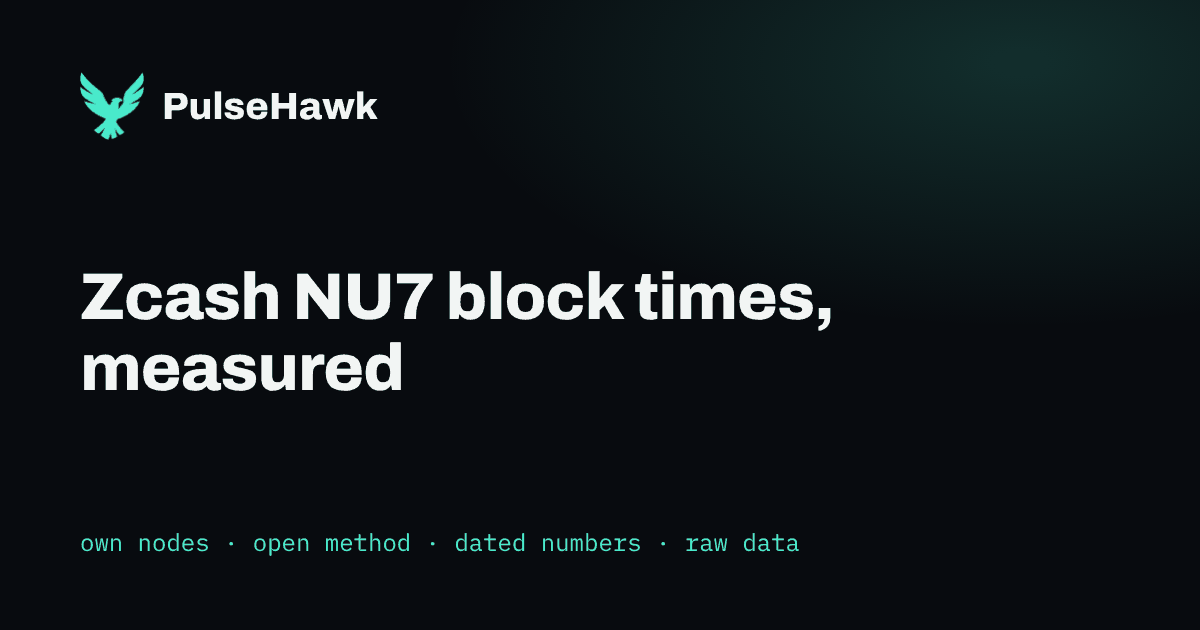
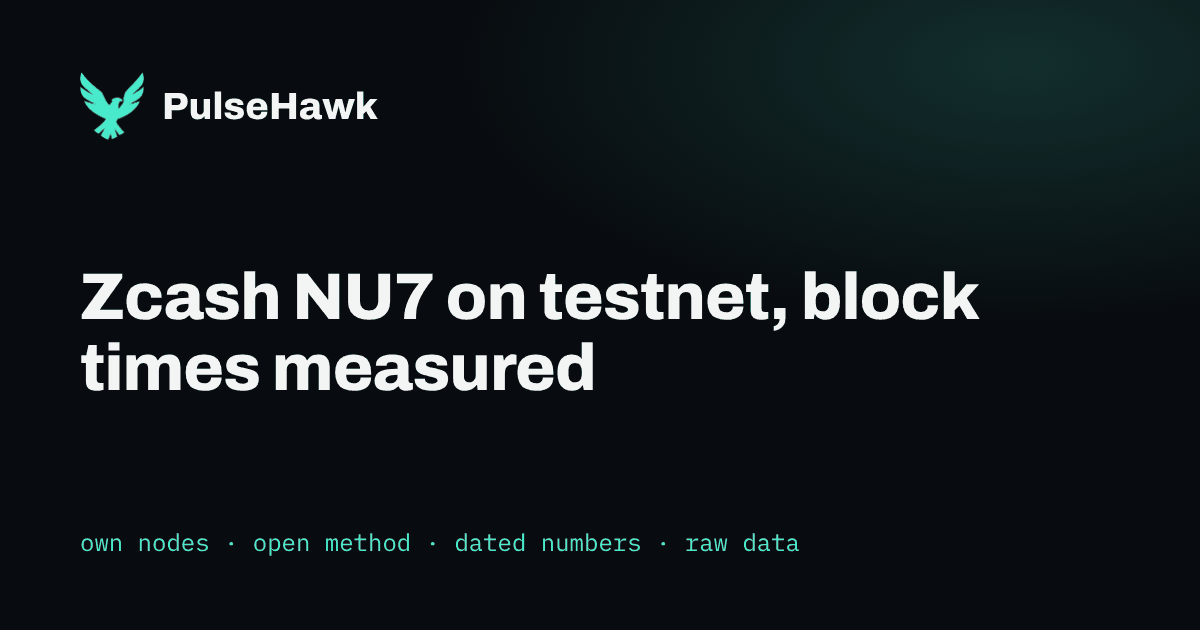
zcash-nu7: testnet im titel, einleitung und beschreibung, bestaetigungen wie im forum-nachtrag
Ben, 18.10.2026: niemand soll die Seite als Mainnet-Messung lesen, die
Mainnet-Entscheidung faellt am Dienstag. Title, H1, Einleitungssatz,
Meta-Beschreibung und die Karte auf der Startseite sagen jetzt
"on testnet" bzw. "Zcash testnet after NU7". og-Bild neu gerendert.

Der Abschnitt zu Bestaetigungen steht im Wortlaut des Forum-Nachtrags,
der auf die Seite verlinkt, mit p99 1,154 s ohne die Fenster um die
Hashrate-Spruenge.

Claude-Session: https://claude.ai/code/session_015SdCP31BCNhp7TLQwH5kUp

diff --git a/zcash-nu7.html b/zcash-nu7.html
@@ -3,8 +3,8 @@
 <head>
 <meta charset="UTF-8">
 <meta name="viewport" content="width=device-width, initial-scale=1">
-<title>Zcash NU7 block times, measured | PulseHawk</title>
-<meta name="description" content="Zcash NU7 block time on the testnet, measured on our own node. Mean 23.68 s against 25 s over 49,203 blocks, with p90, p99, longest gap and orphan rate.">
+<title>Zcash NU7 on testnet, block times measured | PulseHawk</title>
+<meta name="description" content="Zcash testnet after NU7, block times measured on our own node. Mean 23.68 s against 25 s over 49,203 testnet blocks, p90, p99, longest gap, orphan rate.">
 <meta name="robots" content="index, follow, max-image-preview:large">
 <link rel="canonical" href="https://pulsehawk.io/zcash-nu7">
 <link rel="icon" type="image/png" href="/favicon.png">
@@ -13,8 +13,8 @@
 <meta name="theme-color" content="#080B0F">
 <meta property="og:type" content="website">
 <meta property="og:site_name" content="PulseHawk">
-<meta property="og:title" content="Zcash NU7 block times, measured">
-<meta property="og:description" content="Zcash NU7 block time on the testnet, measured on our own node. Mean 23.68 s against 25 s over 49,203 blocks, with p90, p99, longest gap and orphan rate.">
+<meta property="og:title" content="Zcash NU7 on testnet, block times measured">
+<meta property="og:description" content="Zcash testnet after NU7, block times measured on our own node. Mean 23.68 s against 25 s over 49,203 testnet blocks, p90, p99, longest gap, orphan rate.">
 <meta property="og:url" content="https://pulsehawk.io/zcash-nu7">
 <meta property="og:image" content="https://pulsehawk.io/og/zcash-nu7.png">
 <meta property="og:image:width" content="1200">
@@ -57,8 +57,8 @@
   },
   {
    "@type": "Article",
-   "headline": "Zcash NU7 block times, measured",
-   "description": "Zcash NU7 block time on the testnet, measured on our own node. Mean 23.68 s against 25 s over 49,203 blocks, with p90, p99, longest gap and orphan rate.",
+   "headline": "Zcash NU7 on testnet, block times measured",
+   "description": "Zcash testnet after NU7, block times measured on our own node. Mean 23.68 s against 25 s over 49,203 testnet blocks, p90, p99, longest gap, orphan rate.",
    "url": "https://pulsehawk.io/zcash-nu7",
    "datePublished": "2026-10-18",
    "dateModified": "2026-10-18",
@@ -135,7 +135,7 @@
     {
      "@type": "ListItem",
      "position": 2,
-     "name": "Zcash NU7 block times, measured",
+     "name": "Zcash NU7 on testnet, block times measured",
      "item": "https://pulsehawk.io/zcash-nu7"
     }
    ]
@@ -149,9 +149,9 @@
 <a class="skip" href="#inhalt">Skip to content</a>
 <header class="top"><div class="wrap"><a class="brand" href="/"><img src="/hawk.png" alt="" width="30" height="32">PulseHawk</a><nav class="main" aria-label="Main"><ul><li><a href="/tps-verification">TPS verification</a></li><li><a href="/launch-measurement">Launch measurement</a></li><li><a href="/upgrade-monitoring">Upgrade monitoring</a></li><li><a href="/upgrades">Calendar</a></li><li><a href="/zcash-nu7" aria-current="page">Zcash NU7</a></li><li><a href="/method">Method</a></li><li><a href="/independence">Independence</a></li><li><a class="nc" href="/contact">Contact</a></li></ul></nav></div></header>
 <main id="inhalt"><div class="wrap">
-<nav class="crumbs" aria-label="Breadcrumb"><a href="/">Home</a> · <span aria-current="page">Zcash NU7 block times, measured</span></nav>
-<h1>Zcash NU7 block times, measured</h1>
-<p class="lead">Yes, Zcash NU7 runs close to 25 second blocks. Over the 49,203 testnet blocks since activation the mean interval was 23.68 s against the 25 s target, and the spread stayed close to an ideal 25 s chain, apart from one gap of 451 s. Measured on our own node up to 18 October 2026, 06:00 UTC, with 500 of 500 sampled hashes matching two Zebra peers.</p>
+<nav class="crumbs" aria-label="Breadcrumb"><a href="/">Home</a> · <span aria-current="page">Zcash NU7 on testnet, block times measured</span></nav>
+<h1>Zcash NU7 on testnet, block times measured</h1>
+<p class="lead">Yes, the Zcash testnet after NU7 runs close to 25 second blocks. Over the 49,203 testnet blocks since activation the mean interval was 23.68 s against the 25 s target, and the spread stayed close to an ideal 25 s chain, apart from one gap of 451 s. Measured on our own node up to 18 October 2026, 06:00 UTC, with 500 of 500 sampled hashes matching two Zebra peers.</p>
 <section><h2>Does NU7 hit 25 second blocks?</h2>
 <p>Yes. The mean interval was 23.68 s, so blocks came about 5% faster than the target. The median of 17.0 s is what a 25 s chain should show, because most blocks arrive early and a few arrive late.</p>
 <div class="tablewrap"><table class="nums"><thead><tr><th scope="col">Block interval</th><th scope="col">Measured</th><th scope="col">Expected at 25 s</th></tr></thead><tbody>
@@ -176,7 +176,7 @@
 <p class="src">Measured on our own node, Zcash NU7 testnet, blocks 4,465,026 to 4,514,228, snapshot 18 October 2026, 06:00 UTC.</p>
 </section>
 <section><h2>How long do confirmations take?</h2>
-<p>30 blocks at 25 s cover the same 750 s on average as 10 blocks at 75 s. Measured, 30 blocks spanned a median of 730 s and 1,187 s at p99. An ideal 25 s chain gives 1,105 s at p99, an ideal 75 s chain needs 1,409 s at p99 for 10 blocks.</p>
+<p>Thirty blocks at 25 s spanned a median of 730 s and a p99 of 1,187 s. For perfect 25 s blocks the p99 would be about 1,105 s, so the measured value sits above that, partly because of the hashrate jumps (1,154 s without the windows around them), and still well below the 1,409 s for ten blocks at 75 s.</p>
 <p class="src">Measured on our own node, Zcash NU7 testnet, blocks 4,465,026 to 4,514,228, snapshot 18 October 2026, 06:00 UTC.</p>
 </section>
 <section><h2>How many blocks were orphaned?</h2>

diff --git a/index.html b/index.html
@@ -78,7 +78,7 @@
 </section>
 <section><h2>Which networks have we measured?</h2>
 <div class="cards two">
-<a class="card" href="/zcash-nu7"><span class="ct">Zcash NU7</span><span class="cd">49,203 testnet blocks after Network Upgrade 7, measured on our own node up to 18 October 2026. Mean block interval 23.68 s against a 25 s target.</span><span class="cp">Read the Zcash NU7 case</span></a>
+<a class="card" href="/zcash-nu7"><span class="ct">Zcash NU7 on testnet</span><span class="cd">49,203 testnet blocks after Network Upgrade 7, measured on our own node up to 18 October 2026. Mean block interval 23.68 s against a 25 s target.</span><span class="cp">Read the Zcash NU7 case</span></a>
 <a class="card" href="/cases/kaspa"><span class="ct">Kaspa</span><span class="cd">A network with a very high block rate, followed every day since August 2026 through our Kaspa media brand.</span><span class="cp">Read the Kaspa case</span></a>
 </div>
 </section>

diff --git a/scripts/b2b_pages.py b/scripts/b2b_pages.py
@@ -277,7 +277,7 @@ def seiten():
 </section>
 <section><h2>Which networks have we measured?</h2>
 <div class="cards two">
-<a class="card" href="/zcash-nu7"><span class="ct">Zcash NU7</span><span class="cd">49,203 testnet blocks after Network Upgrade 7, measured on our own node up to 18 October 2026. Mean block interval 23.68 s against a 25 s target.</span><span class="cp">Read the Zcash NU7 case</span></a>
+<a class="card" href="/zcash-nu7"><span class="ct">Zcash NU7 on testnet</span><span class="cd">49,203 testnet blocks after Network Upgrade 7, measured on our own node up to 18 October 2026. Mean block interval 23.68 s against a 25 s target.</span><span class="cp">Read the Zcash NU7 case</span></a>
 <a class="card" href="/cases/kaspa"><span class="ct">Kaspa</span><span class="cd">A network with a very high block rate, followed every day since August 2026 through our Kaspa media brand.</span><span class="cp">Read the Kaspa case</span></a>
 </div>
 </section>
@@ -649,12 +649,12 @@ def seiten():
     ]
     S.append(dict(
         datei="zcash-nu7.html", pfad="/zcash-nu7", og="zcash-nu7", lastmod="2026-10-18",
-        title="Zcash NU7 block times, measured | PulseHawk",
-        desc=("Zcash NU7 block time on the testnet, measured on our own node. Mean 23.68 s "
-              "against 25 s over 49,203 blocks, with p90, p99, longest gap and orphan rate."),
-        h1="Zcash NU7 block times, measured",
-        lead=("Yes, Zcash NU7 runs close to 25 second blocks. Over the 49,203 testnet blocks "
-              "since activation the mean interval was 23.68 s against the 25 s target, and the "
+        title="Zcash NU7 on testnet, block times measured | PulseHawk",
+        desc=("Zcash testnet after NU7, block times measured on our own node. Mean 23.68 s "
+              "against 25 s over 49,203 testnet blocks, p90, p99, longest gap, orphan rate."),
+        h1="Zcash NU7 on testnet, block times measured",
+        lead=("Yes, the Zcash testnet after NU7 runs close to 25 second blocks. Over the 49,203 "
+              "testnet blocks since activation the mean interval was 23.68 s against the 25 s target, and the "
               "spread stayed close to an ideal 25 s chain, apart from one gap of 451 s. Measured "
               "on our own node up to 18 October 2026, 06:00 UTC, with 500 of 500 sampled hashes "
               "matching two Zebra peers."),
@@ -683,7 +683,7 @@ def seiten():
 %s
 </section>
 <section><h2>How long do confirmations take?</h2>
-<p>30 blocks at 25 s cover the same 750 s on average as 10 blocks at 75 s. Measured, 30 blocks spanned a median of 730 s and 1,187 s at p99. An ideal 25 s chain gives 1,105 s at p99, an ideal 75 s chain needs 1,409 s at p99 for 10 blocks.</p>
+<p>Thirty blocks at 25 s spanned a median of 730 s and a p99 of 1,187 s. For perfect 25 s blocks the p99 would be about 1,105 s, so the measured value sits above that, partly because of the hashrate jumps (1,154 s without the windows around them), and still well below the 1,409 s for ten blocks at 75 s.</p>
 %s
 </section>
 <section><h2>How many blocks were orphaned?</h2>
